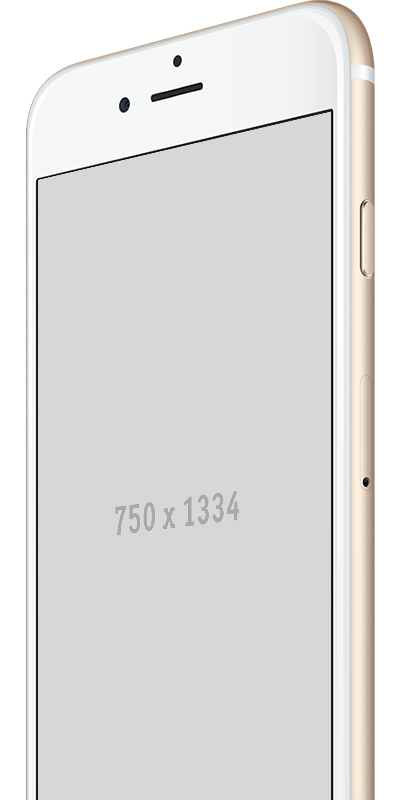
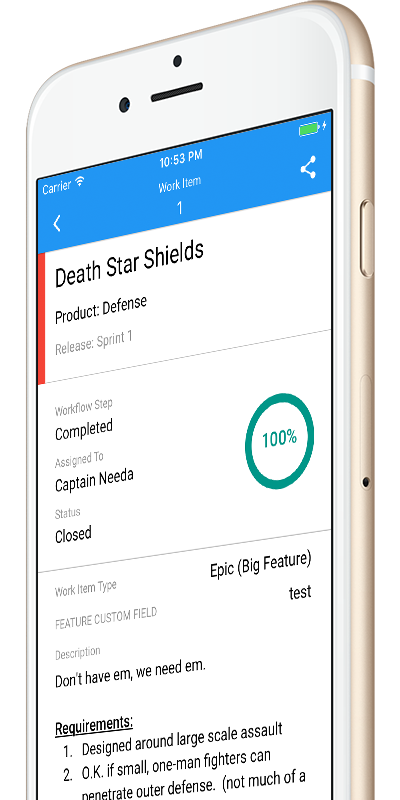
Updated primary image & some copy

diff --git a/index.html b/index.html
@@ -106,7 +106,7 @@
 						</button>
 
 						<!-- NAVBAR LOGO -->
-						<a class="navbar-brand navbar-logo" href="#home"><img src="images/logos/website-logo.png" alt="EOS - App Landing Page Template" /></a>
+						<a class="navbar-brand navbar-logo" href="#home"><img src="images/logos/website-logo.png" alt="Axoviewer" /></a>
 					</div>
 
 					<div id="navigation" class="navbar-collapse collapse">
@@ -142,7 +142,7 @@
 						<div class="hero-text wow fadeIn" data-wow-duration="1s" data-wow-delay="0.5s">
 							
 							<!-- LOGO -->
-							<img src="images/logos/AxoViewer-logo.png" alt="EOS - App Landing Page Template" class="hero-logo" />
+							<img src="images/logos/AxoViewer-logo.png" alt="Axoviewer - Axosoft Mobile App" class="hero-logo" />
 
 							<!-- TAGLINE -->
 							<h1 class="hero-title">Axosoft on your iOS device.</h1>
@@ -174,9 +174,6 @@
 						<!-- HERO IMAGES -->
 						<div class="hero-images wow fadeInUp" data-wow-duration="1s" data-wow-delay="0.5s">
 							<img src="images/contents/hero-phone.png" class="hero-image parallax" alt="" data-stellar-ratio="0.7" />
-
-							<!-- WATCH THE VIDEO -->
-							<a href="#video" class="hero-watch-video-link anchor-link"><i class="fa fa-play"></i><span class="hidden">Watch The Video</span></a>
 						</div>
 					</div>
 
@@ -206,11 +203,11 @@
 							<ul class="features-list features-list-left wow fadeInLeft" data-wow-duration="1s">
 								<li class="features-list-item">
 									<h5>View Items</h5>
-									<p>Beautiful and easy to use lists make it a breeze to find that one item you can't seem to locate quickly.</p>
+									<p>Beautiful and easy to use lists make it a breeze to find that one Axosoft item you can't seem to locate quickly.</p>
 								</li>
 								<li class="features-list-item">
 									<h5>Filter, Group, and Sort</h5>
-									<p>Just as you would on the desktop website, filter, group, and sort items using standard and custom filters.</p>
+									<p>Just as you would on the Axosoft website, filter, group, and sort items using standard and custom filters.</p>
 								</li>
 							</ul>
 						</div>
@@ -220,11 +217,11 @@
 							<ul class="features-list features-list-right wow fadeInRight" data-wow-duration="1s">
 								<li class="features-list-item">
 									<h5>Search</h5>
-									<p>Find any item by using the Search feature. Search by ID, name, description, or any field you need!</p>
+									<p>Find any Axosoft item by using the Search feature. Search by ID, name, description, or any field you need!</p>
 								</li>
 								<li class="features-list-item">
 									<h5>Share Items</h5>
-									<p>Need to send Tom a link to the item you're talking about? Share Items directly within AxoViewer by any available iOS sharing option (SMS, AirDrop, etc.), and Tom can view the item right on his phone.</p>
+									<p>Need to send Tom a link to the item you're talking about? Share Axosoft items directly within AxoViewer by any available iOS sharing option (SMS, AirDrop, etc.), and Tom can view the item right on his phone.</p>
 								</li>
 							</ul>
 						</div>
@@ -281,14 +278,12 @@
 			TESTIMONIALS SECTION
 			=================================
 			-->
-			<section id="testimonials" class="testimonials-section section section-inverse-color parallax-background" data-stellar-background-ratio="0.4">
+			<!-- <section id="testimonials" class="testimonials-section section section-inverse-color parallax-background" data-stellar-background-ratio="0.4">
 
-				<!-- BACKGROUND OVERLAY -->
 				<div class="accent-background-overlay"></div>
 
 				<div class="container">
 
-					<!-- TESTIMONIALS -->
 					<div class="testimonials-carousel">
 						<ul class="testimonial-items owl-carousel wow fadeIn" data-wow-duration="1s">
 							<li>
@@ -311,7 +306,7 @@
 					</div>
 
 				</div>
-			</section>
+			</section> -->
 
 			<!--
 			=================================
@@ -651,11 +646,11 @@
 
 					<!-- SOCIAL MEDIA LINKS -->
 					<ul class="social-media-links wow fadeIn" data-wow-duration="1s">
-						<li><a href="http://facebook.com"><i class="fa fa-facebook"></i><span class="sr-only">Facebook</span></a>
-						<li><a href="http://twitter.com"><i class="fa fa-twitter"></i><span class="sr-only">Twitter</span></a>
-						<li><a href="http://instagram.com"><i class="fa fa-instagram"></i><span class="sr-only">Instagram</span></a>
-						<li><a href="http://pinterest.com"><i class="fa fa-pinterest"></i><span class="sr-only">Pinterest</span></a>
-						<li><a href="#"><i class="fa fa-envelope"></i><span class="sr-only">Email</span></a>
+						<li><a href="https://facebook.com/axoviewer" target="_blank"><i class="fa fa-facebook"></i><span class="sr-only">Facebook</span></a>
+						<li><a href="https://twitter.com/axoviewer" target="_blank"><i class="fa fa-twitter"></i><span class="sr-only">Twitter</span></a>
+						<!-- <li><a href="http://instagram.com"><i class="fa fa-instagram"></i><span class="sr-only">Instagram</span></a>
+						<li><a href="http://pinterest.com"><i class="fa fa-pinterest"></i><span class="sr-only">Pinterest</span></a> -->
+						<li><a href="#" target="_blank"><i class="fa fa-envelope"></i><span class="sr-only">Email</span></a>
 					</ul>
 
 					<!-- COPYRIGHT -->
